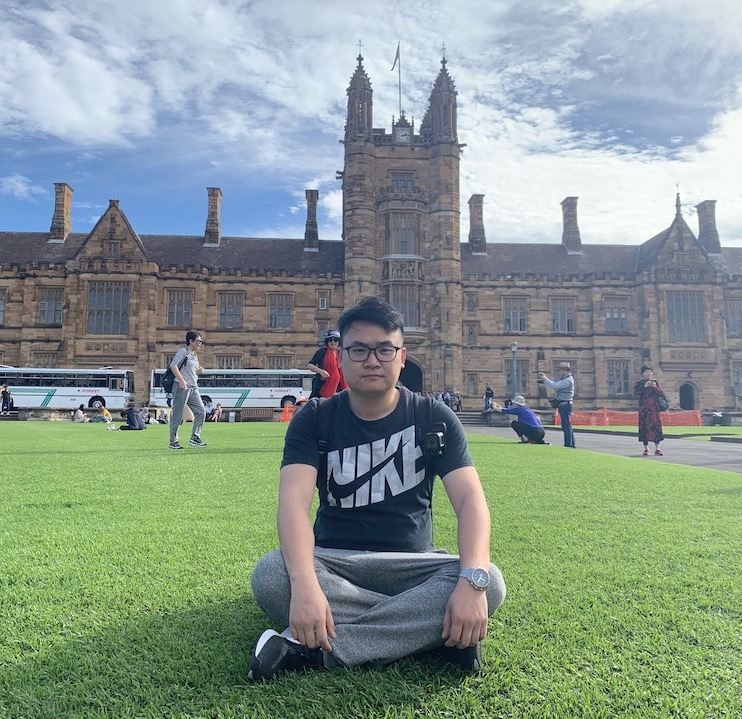
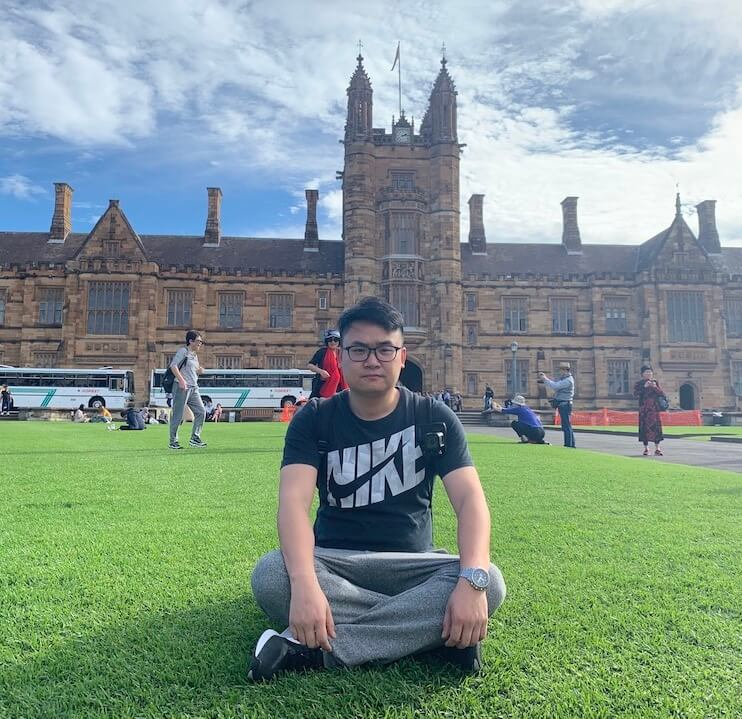
compress some resources

diff --git a/_site/404.html b/_site/404.html
@@ -7,16 +7,16 @@
   <meta name="viewport" content="width=device-width, initial-scale=1, maximum-scale=1">
 
   <title>拜伦的博客</title>
-  <meta name="description" content="欢迎来到我的个人站~">
+  <meta name="description" content="欢迎来我的个人站">
   <meta name="author" content="leopardpan">
 
   <meta name="twitter:card" content="summary">
   <meta name="twitter:title" content="拜伦的博客">
-  <meta name="twitter:description" content="欢迎来到我的个人站~">
+  <meta name="twitter:description" content="欢迎来我的个人站">
   
   <meta property="og:type" content="article">
   <meta property="og:title" content="拜伦的博客">
-  <meta property="og:description" content="欢迎来到我的个人站~">
+  <meta property="og:description" content="欢迎来我的个人站">
   
   <link rel="icon" type="image/png" href="/images/favicon.png" />
   <link href="/images/favicon.png" rel="shortcut icon" type="image/png">
@@ -103,9 +103,11 @@
         <span class="panel-cover__subtitle panel-subtitle">Coder Byron</span>
         
         <hr class="panel-cover__divider" />
-        <p class="panel-cover__description">欢迎来到我的个人站~</p>
+        <p class="panel-cover__description">欢迎来我的个人站</p>
         <hr class="panel-cover__divider panel-cover__divider--secondary" />
         
+        
+        <p class="panel-cover__description">这里有关于iOS,机器学习的笔记心得,欢迎指正</p>
         
         
 

diff --git a/_site/index.html b/_site/index.html
@@ -7,16 +7,16 @@
   <meta name="viewport" content="width=device-width, initial-scale=1, maximum-scale=1">
 
   <title>拜伦的博客</title>
-  <meta name="description" content="欢迎来到我的个人站~">
+  <meta name="description" content="欢迎来我的个人站">
   <meta name="author" content="leopardpan">
 
   <meta name="twitter:card" content="summary">
   <meta name="twitter:title" content="拜伦的博客">
-  <meta name="twitter:description" content="欢迎来到我的个人站~">
+  <meta name="twitter:description" content="欢迎来我的个人站">
   
   <meta property="og:type" content="article">
   <meta property="og:title" content="拜伦的博客">
-  <meta property="og:description" content="欢迎来到我的个人站~">
+  <meta property="og:description" content="欢迎来我的个人站">
   
   <link rel="icon" type="image/png" href="/images/favicon.png" />
   <link href="/images/favicon.png" rel="shortcut icon" type="image/png">
@@ -103,9 +103,11 @@
         <span class="panel-cover__subtitle panel-subtitle">Coder Byron</span>
         
         <hr class="panel-cover__divider" />
-        <p class="panel-cover__description">欢迎来到我的个人站~</p>
+        <p class="panel-cover__description">欢迎来我的个人站</p>
         <hr class="panel-cover__divider panel-cover__divider--secondary" />
         
+        
+        <p class="panel-cover__description">这里有关于iOS,机器学习的笔记心得,欢迎指正</p>
         
         
 

diff --git a/_site/tags/index.html b/_site/tags/index.html
@@ -7,16 +7,16 @@
   <meta name="viewport" content="width=device-width, initial-scale=1, maximum-scale=1">
 
   <title>拜伦的博客</title>
-  <meta name="description" content="欢迎来到我的个人站~">
+  <meta name="description" content="欢迎来我的个人站">
   <meta name="author" content="leopardpan">
 
   <meta name="twitter:card" content="summary">
   <meta name="twitter:title" content="拜伦的博客">
-  <meta name="twitter:description" content="欢迎来到我的个人站~">
+  <meta name="twitter:description" content="欢迎来我的个人站">
   
   <meta property="og:type" content="article">
   <meta property="og:title" content="拜伦的博客">
-  <meta property="og:description" content="欢迎来到我的个人站~">
+  <meta property="og:description" content="欢迎来我的个人站">
   
   <link rel="icon" type="image/png" href="/images/favicon.png" />
   <link href="/images/favicon.png" rel="shortcut icon" type="image/png">
@@ -103,9 +103,11 @@
         <span class="panel-cover__subtitle panel-subtitle">Coder Byron</span>
         
         <hr class="panel-cover__divider" />
-        <p class="panel-cover__description">欢迎来到我的个人站~</p>
+        <p class="panel-cover__description">欢迎来我的个人站</p>
         <hr class="panel-cover__divider panel-cover__divider--secondary" />
         
+        
+        <p class="panel-cover__description">这里有关于iOS,机器学习的笔记心得,欢迎指正</p>
         
         
 

diff --git a/_site/support/index.html b/_site/support/index.html
@@ -7,16 +7,16 @@
   <meta name="viewport" content="width=device-width, initial-scale=1, maximum-scale=1">
 
   <title>技术支持</title>
-  <meta name="description" content="欢迎来到我的个人站~">
+  <meta name="description" content="欢迎来我的个人站">
   <meta name="author" content="leopardpan">
 
   <meta name="twitter:card" content="summary">
   <meta name="twitter:title" content="技术支持">
-  <meta name="twitter:description" content="欢迎来到我的个人站~">
+  <meta name="twitter:description" content="欢迎来我的个人站">
   
   <meta property="og:type" content="article">
   <meta property="og:title" content="技术支持">
-  <meta property="og:description" content="欢迎来到我的个人站~">
+  <meta property="og:description" content="欢迎来我的个人站">
   
   <link rel="icon" type="image/png" href="/images/favicon.png" />
   <link href="/images/favicon.png" rel="shortcut icon" type="image/png">
@@ -103,9 +103,11 @@
         <span class="panel-cover__subtitle panel-subtitle">Coder Byron</span>
         
         <hr class="panel-cover__divider" />
-        <p class="panel-cover__description">欢迎来到我的个人站~</p>
+        <p class="panel-cover__description">欢迎来我的个人站</p>
         <hr class="panel-cover__divider panel-cover__divider--secondary" />
         
+        
+        <p class="panel-cover__description">这里有关于iOS,机器学习的笔记心得,欢迎指正</p>
         
         
 

diff --git a/_site/about/index.html b/_site/about/index.html
@@ -7,16 +7,16 @@
   <meta name="viewport" content="width=device-width, initial-scale=1, maximum-scale=1">
 
   <title>关于我</title>
-  <meta name="description" content="欢迎来到我的个人站~">
+  <meta name="description" content="欢迎来我的个人站">
   <meta name="author" content="leopardpan">
 
   <meta name="twitter:card" content="summary">
   <meta name="twitter:title" content="关于我">
-  <meta name="twitter:description" content="欢迎来到我的个人站~">
+  <meta name="twitter:description" content="欢迎来我的个人站">
   
   <meta property="og:type" content="article">
   <meta property="og:title" content="关于我">
-  <meta property="og:description" content="欢迎来到我的个人站~">
+  <meta property="og:description" content="欢迎来我的个人站">
   
   <link rel="icon" type="image/png" href="/images/favicon.png" />
   <link href="/images/favicon.png" rel="shortcut icon" type="image/png">
@@ -103,9 +103,11 @@
         <span class="panel-cover__subtitle panel-subtitle">Coder Byron</span>
         
         <hr class="panel-cover__divider" />
-        <p class="panel-cover__description">欢迎来到我的个人站~</p>
+        <p class="panel-cover__description">欢迎来我的个人站</p>
         <hr class="panel-cover__divider panel-cover__divider--secondary" />
         
+        
+        <p class="panel-cover__description">这里有关于iOS,机器学习的笔记心得,欢迎指正</p>
         
         
 

diff --git a/_site/archive/index.html b/_site/archive/index.html
@@ -7,16 +7,16 @@
   <meta name="viewport" content="width=device-width, initial-scale=1, maximum-scale=1">
 
   <title>文章</title>
-  <meta name="description" content="欢迎来到我的个人站~">
+  <meta name="description" content="欢迎来我的个人站">
   <meta name="author" content="leopardpan">
 
   <meta name="twitter:card" content="summary">
   <meta name="twitter:title" content="文章">
-  <meta name="twitter:description" content="欢迎来到我的个人站~">
+  <meta name="twitter:description" content="欢迎来我的个人站">
   
   <meta property="og:type" content="article">
   <meta property="og:title" content="文章">
-  <meta property="og:description" content="欢迎来到我的个人站~">
+  <meta property="og:description" content="欢迎来我的个人站">
   
   <link rel="icon" type="image/png" href="/images/favicon.png" />
   <link href="/images/favicon.png" rel="shortcut icon" type="image/png">
@@ -103,9 +103,11 @@
         <span class="panel-cover__subtitle panel-subtitle">Coder Byron</span>
         
         <hr class="panel-cover__divider" />
-        <p class="panel-cover__description">欢迎来到我的个人站~</p>
+        <p class="panel-cover__description">欢迎来我的个人站</p>
         <hr class="panel-cover__divider panel-cover__divider--secondary" />
         
+        
+        <p class="panel-cover__description">这里有关于iOS,机器学习的笔记心得,欢迎指正</p>
         
         
 

diff --git a/_site/2020/08/first1/index.html b/_site/2020/08/first1/index.html
@@ -103,9 +103,11 @@
         <span class="panel-cover__subtitle panel-subtitle">Coder Byron</span>
         
         <hr class="panel-cover__divider" />
-        <p class="panel-cover__description">欢迎来到我的个人站~</p>
+        <p class="panel-cover__description">欢迎来我的个人站</p>
         <hr class="panel-cover__divider panel-cover__divider--secondary" />
         
+        
+        <p class="panel-cover__description">这里有关于iOS,机器学习的笔记心得,欢迎指正</p>
         
         
 
